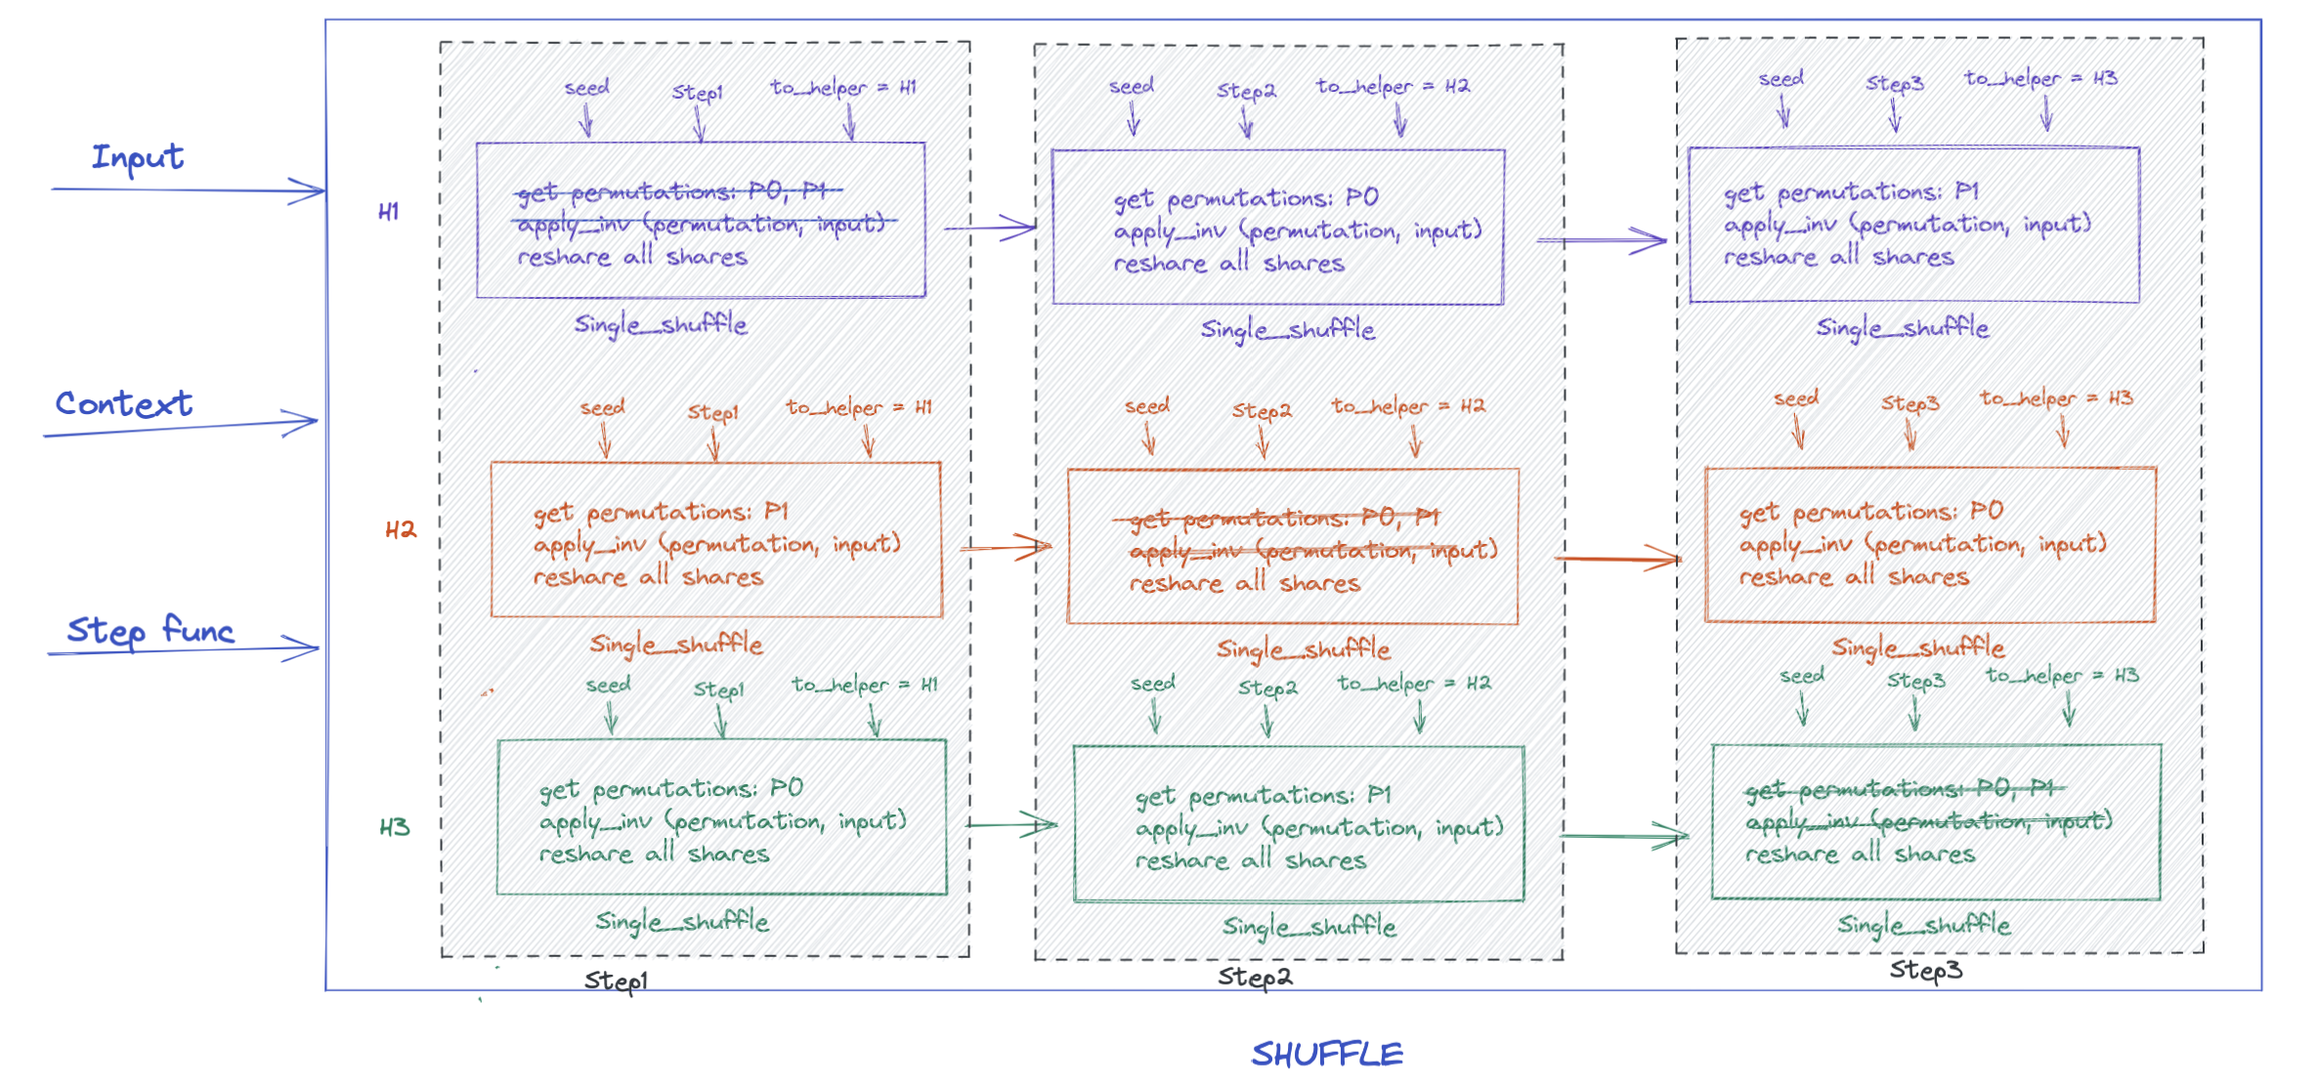
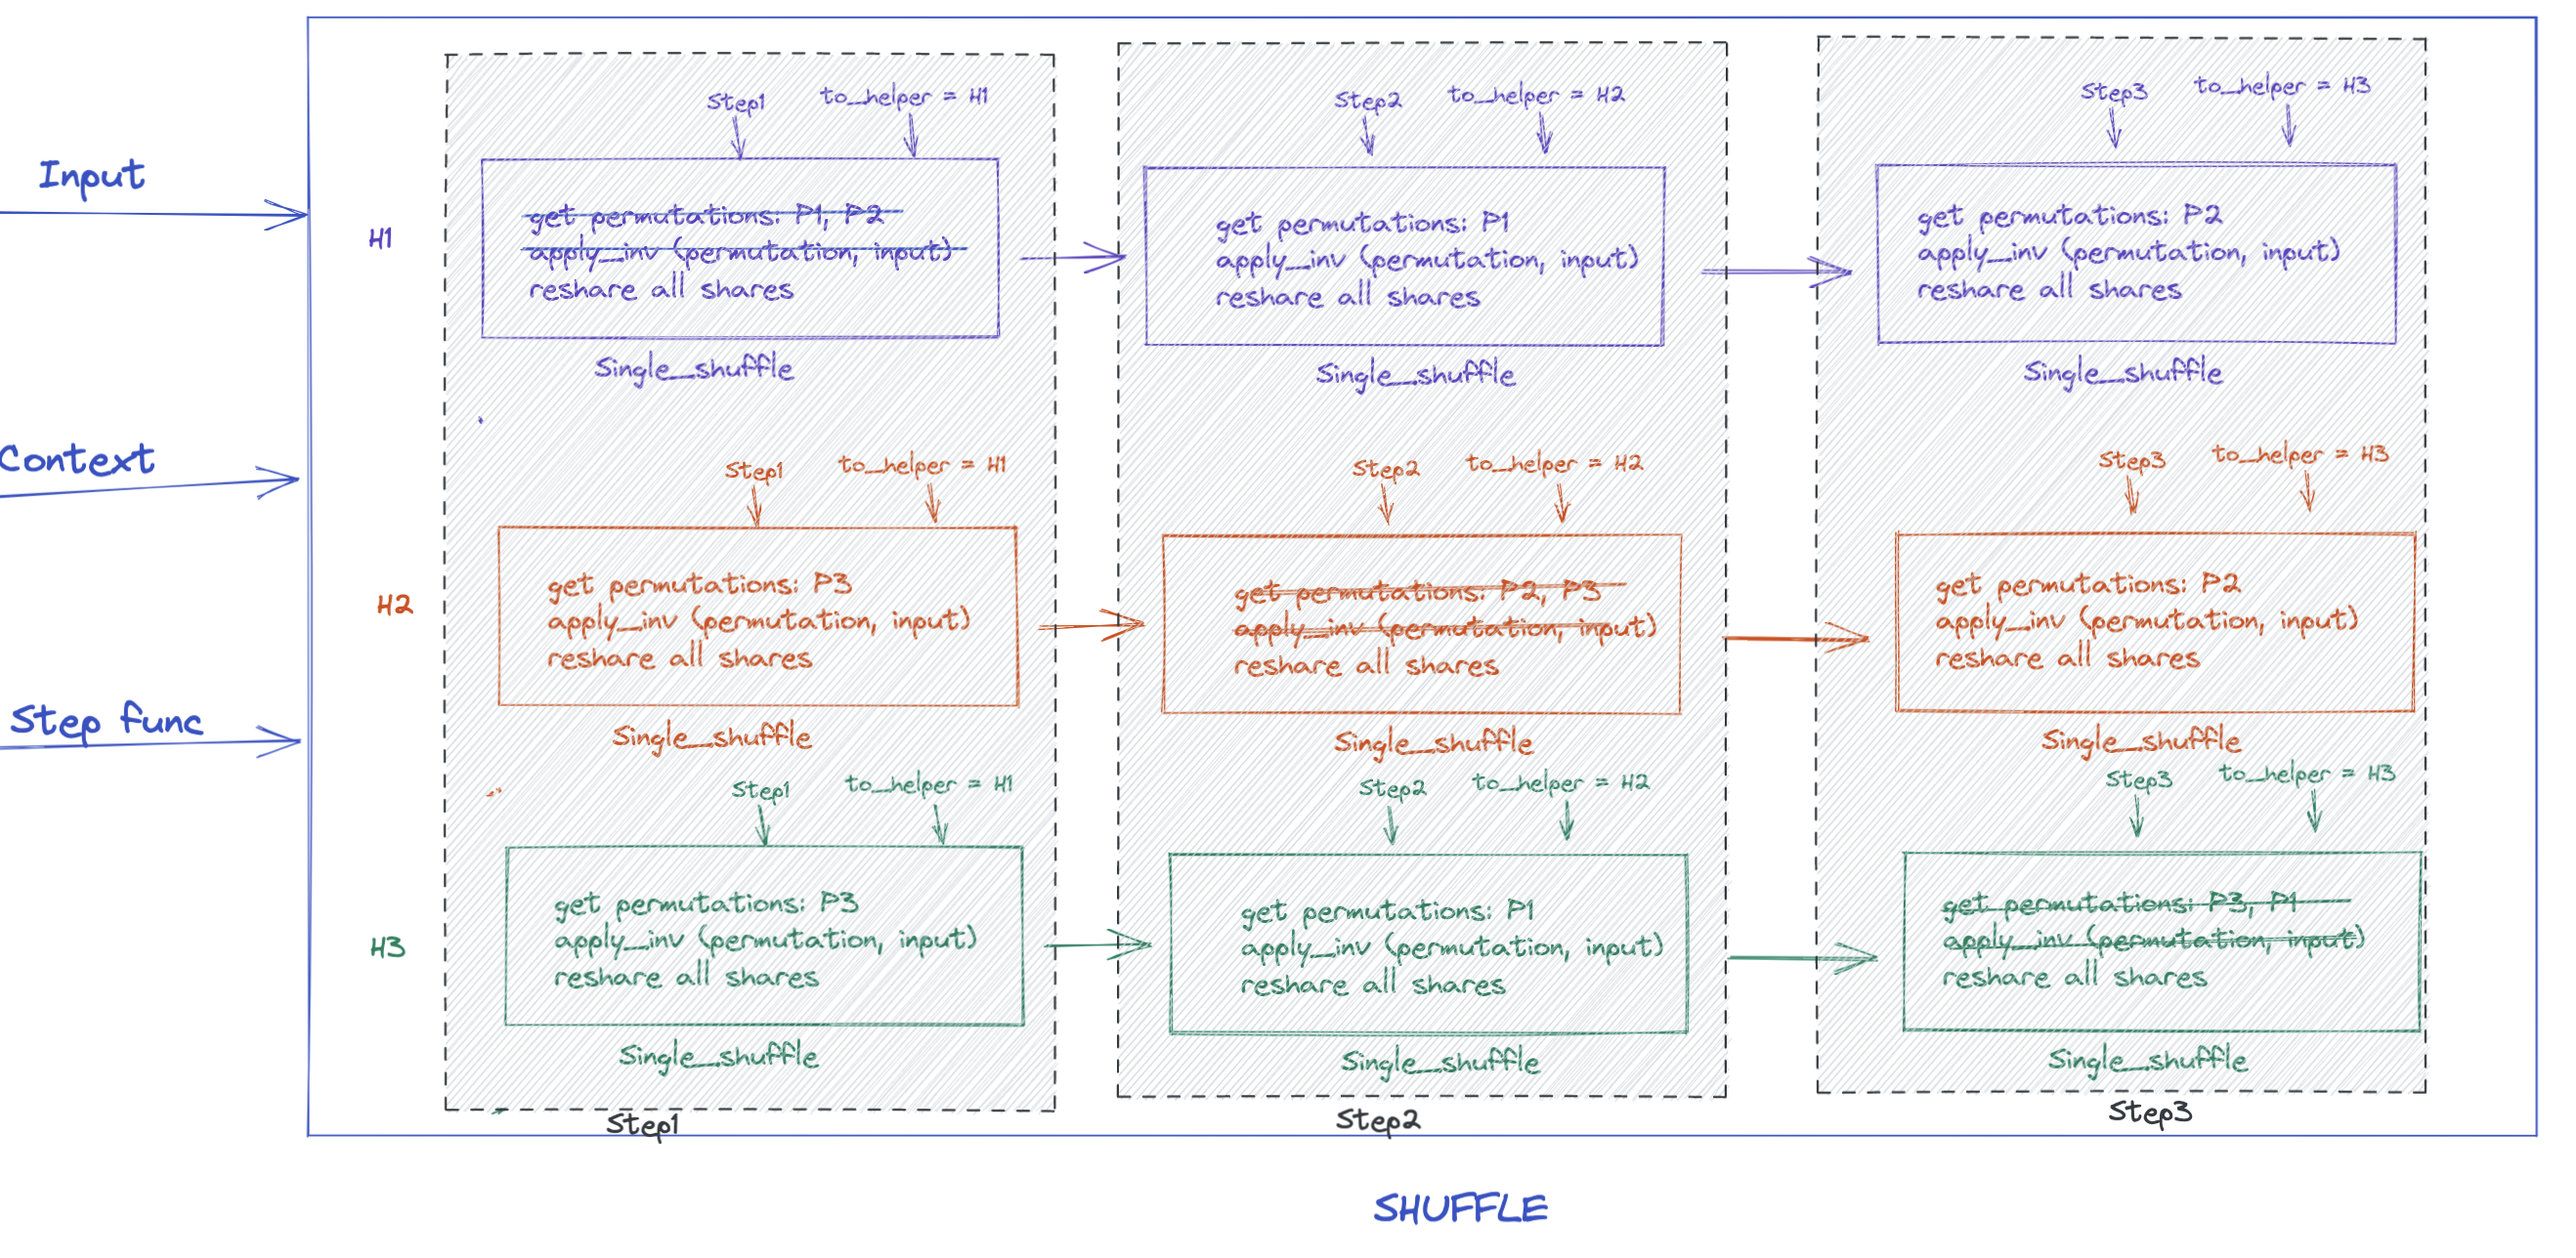
Improving comments and removing dead code wherever code is being used now

diff --git a/src/protocol/sort/shuffle.rs b/src/protocol/sort/shuffle.rs
@@ -1,7 +1,8 @@
 use crate::helpers::prss::PrssSpace;
 use permutation::Permutation;
-use rand::rngs::mock::StepRng;
 use rand::seq::SliceRandom;
+use rand::SeedableRng;
+use rand_chacha::ChaCha8Rng;
 
 use embed_doc_image::embed_doc_image;
 use futures::future::try_join_all;
@@ -25,66 +26,71 @@ use super::{
 };
 
 #[allow(dead_code)]
-pub struct Shuffle<F, S> {
-    input: Vec<Replicated<F>>,
+pub struct Shuffle<'a, F, S> {
+    input: &'a mut Vec<Replicated<F>>,
     step_fn: fn(ShuffleStep) -> S,
 }
 
 /// This is SHUFFLE(Algorithm 1) described in <https://eprint.iacr.org/2019/695.pdf>.
 /// This protocol shuffles the given inputs across 3 helpers making them indistinguishable to the helpers
-impl<F: Field, S: Step + SpaceIndex> Shuffle<F, S> {
+impl<'a, F: Field, S: Step + SpaceIndex> Shuffle<'a, F, S> {
     #[allow(dead_code)]
-    pub fn new(input: Vec<Replicated<F>>, step_fn: fn(ShuffleStep) -> S) -> Self {
+    pub fn new(input: &'a mut Vec<Replicated<F>>, step_fn: fn(ShuffleStep) -> S) -> Self {
         Self { input, step_fn }
     }
 
     /// This implements Fisher Yates shuffle described here <https://en.wikipedia.org/wiki/Fisher%E2%80%93Yates_shuffle>
-    #[allow(clippy::cast_possible_truncation, dead_code)]
+    #[allow(clippy::cast_possible_truncation)]
     fn generate_random_permutation(
         batchsize: usize,
         direction: Direction,
-        index: u64,
         prss: &PrssSpace,
     ) -> Permutation {
-        let mut permutation: Vec<usize> = (0..batchsize).collect();
-        let rand = prss.generate_values(index.into());
-        let mut rng = if direction == Direction::Left {
-            StepRng::new(rand.0 as u64, 1)
+        // Chacha8Rng expects a [u8;32] seed whereas prss returns a u128 number.
+        // We are using two seeds from prss to generate a seed for shuffle and concatenating them
+        // Since reshare uses indexes 0..batchsize to generate random numbers from prss, we are using
+        // batchsize and batchsize+1 as index to get seeds for permutation
+        let randoms = (
+            prss.generate_values(batchsize as u128),
+            prss.generate_values(batchsize as u128 + 1),
+        );
+        let mut seed = Vec::with_capacity(32);
+        if direction == Direction::Left {
+            seed.extend_from_slice(&randoms.0 .0.to_le_bytes());
+            seed.extend_from_slice(&randoms.1 .0.to_le_bytes());
         } else {
-            StepRng::new(rand.1 as u64, 1)
+            seed.extend_from_slice(&randoms.0 .1.to_le_bytes());
+            seed.extend_from_slice(&randoms.1 .1.to_le_bytes());
         };
-        permutation.shuffle(&mut rng);
+
+        let mut permutation: Vec<usize> = (0..batchsize).collect();
+
+        permutation.shuffle(&mut ChaCha8Rng::from_seed(seed.try_into().unwrap()));
         Permutation::from_vec(permutation)
     }
 
-    #[allow(clippy::cast_possible_truncation)]
-    fn generate_random_permutations(
-        &self,
-        direction: Direction,
-        prss: &PrssSpace,
-        seed: u128,
-    ) -> Permutation {
-        let batchsize = self.input.len();
-        let index = if direction == Direction::Left {
-            prss.generate_values(seed).0
-        } else {
-            prss.generate_values(seed).1
-        };
-
-        Self::generate_random_permutation(batchsize, direction, index as u64, prss)
+    // We call shuffle with helpers involved as (H2, H3), (H3, H1) and (H1, H2). In other words, the shuffle is being called for
+    // H1, H2 and H3 respectively (since they do not participate in the step) and hence are the recipients of the shuffle.
+    fn shuffle_for_helper(which_step: ShuffleStep) -> Identity {
+        match which_step {
+            Step1 => Identity::H1,
+            Step2 => Identity::H2,
+            Step3 => Identity::H3,
+        }
     }
 
     #[allow(clippy::cast_possible_truncation)]
     async fn reshare_all_shares<M, G>(
         &self,
         ctx: &ProtocolContext<'_, G, S>,
-        to_helper: Identity,
-        step: S,
+        which_step: ShuffleStep,
     ) -> Result<Vec<Replicated<F>>, BoxError>
     where
         M: Mesh,
         G: Gateway<M, S>,
     {
+        let step = (self.step_fn)(which_step);
+        let to_helper = Self::shuffle_for_helper(which_step);
         let reshares = self
             .input
             .iter()
@@ -98,16 +104,16 @@ impl<F: Field, S: Step + SpaceIndex> Shuffle<F, S> {
     }
 
     /// `single_shuffle` is called for the helpers
-    /// i) 2/3 helpers generate random sequence using shared prss random number
-    /// ii) 2/3 helpers apply the permutation to their shares
+    /// i)   2 helpers generate random sequence using shared prss random number
+    /// ii)  2 helpers apply the permutation to their shares
     /// iii) reshare to `to_helper`
+    #[allow(clippy::cast_possible_truncation)]
     async fn single_shuffle<M: Mesh, G: Gateway<M, S>>(
         &mut self,
         ctx: &ProtocolContext<'_, G, S>,
-        seed: u128,
-        to_helper: Identity,
         which_step: ShuffleStep,
     ) -> Result<Vec<Replicated<F>>, BoxError> {
+        let to_helper = Self::shuffle_for_helper(which_step);
         let step = (self.step_fn)(which_step);
         let prss = &ctx.participant[step];
         let channel = ctx.gateway.get_channel(step);
@@ -118,53 +124,44 @@ impl<F: Field, S: Step + SpaceIndex> Shuffle<F, S> {
             } else {
                 Direction::Right
             };
-            let mut permute = self.generate_random_permutations(direction, prss, seed);
+            let mut permute = Self::generate_random_permutation(self.input.len(), direction, prss);
             apply_inv(&mut permute, &mut self.input);
         }
-        self.reshare_all_shares(ctx, to_helper, step).await
+        self.reshare_all_shares(ctx, which_step).await
     }
-
-    /// Executes shuffling the inputs within mpc.
-    /// Shuffle calls `single_shuffle` three times with 2/3 helpers shuffling the shares each time.
-    /// Since each shuffle needs to be unique for the infrastructure to work, we have three steps to indicate that.
-    /// Due to this, the Shuffle object receives a step function and appends a `ShuffleStep` to form a concrete step.
-    #[embed_doc_image("reshare", "images/sort/shuffle.png")]
+    #[embed_doc_image("shuffle", "images/sort/shuffle.png")]
+    /// Shuffle calls `single_shuffle` three times with 2 helpers shuffling the shares each time.
+    /// Order of calling `single_shuffle` is shuffle with (H2, H3), (H3, H1) and (H1, H2).
+    /// Each single shuffle requires communication between helpers to perform reshare.
+    /// Infrastructure has a pre-requisite to distinguish each communication step uniquely.
+    /// For this, we have three shuffle steps one per `single_shuffle` i.e. Step1, Step2 and Step3.
+    /// The Shuffle object receives a step function and appends a `ShuffleStep` to form a concrete step
+    /// ![Shuffle steps][shuffle]
     #[allow(dead_code)]
     pub async fn execute<M: Mesh, G: Gateway<M, S>>(
         &mut self,
         ctx: &ProtocolContext<'_, G, S>,
-    ) -> Result<Vec<Replicated<F>>, BoxError>
+    ) -> Result<(), BoxError>
     where
         F: Field,
     {
-        // TODO : Need to find a way to have a better seed here. Can we use QueryID + SortStep combination to generate a seed?
-        let seed = self.input.len().try_into().unwrap();
-        self.input = self
-            .single_shuffle(ctx, seed, Identity::H1, Step1)
-            .await
-            .unwrap();
-        self.input = self
-            .single_shuffle(ctx, seed, Identity::H2, Step2)
-            .await
-            .unwrap();
-        self.input = self
-            .single_shuffle(ctx, seed, Identity::H3, Step3)
-            .await
-            .unwrap();
+        *self.input = self.single_shuffle(ctx, Step1).await.unwrap();
+        *self.input = self.single_shuffle(ctx, Step2).await.unwrap();
+        *self.input = self.single_shuffle(ctx, Step3).await.unwrap();
 
-        Ok(self.input.clone())
+        Ok(())
     }
 }
 
 #[cfg(test)]
 mod tests {
-    use crate::helpers::Direction;
-    use rand::{rngs::mock::StepRng, Rng};
+    use rand::rngs::mock::StepRng;
     use std::collections::HashSet;
 
     use super::Shuffle;
     use crate::{
         field::Fp31,
+        helpers::Direction,
         protocol::sort::ShuffleStep::Step1,
         protocol::QueryId,
         test_fixture::{
@@ -177,46 +174,39 @@ mod tests {
 
     #[test]
     fn random_sequence_generated() {
-        let mut rand = StepRng::new(1, 1);
         let batchsize = 10000;
         let (p1, p2, p3) = make_participants();
-        let index = rand.gen::<u64>();
         let sequence1left = Shuffle::<Fp31, TestStep>::generate_random_permutation(
             batchsize,
             Direction::Left,
-            index,
             &p1[TestStep::Shuffle(Step1)],
         );
         let sequence1right = Shuffle::<Fp31, TestStep>::generate_random_permutation(
             batchsize,
             Direction::Right,
-            index,
             &p1[TestStep::Shuffle(Step1)],
         );
 
         let sequence2left = Shuffle::<Fp31, TestStep>::generate_random_permutation(
             batchsize,
             Direction::Left,
-            index,
             &p2[TestStep::Shuffle(Step1)],
         );
+
         let sequence2right = Shuffle::<Fp31, TestStep>::generate_random_permutation(
             batchsize,
             Direction::Right,
-            index,
             &p2[TestStep::Shuffle(Step1)],
         );
 
         let sequence3left = Shuffle::<Fp31, TestStep>::generate_random_permutation(
             batchsize,
             Direction::Left,
-            index,
             &p3[TestStep::Shuffle(Step1)],
         );
         let sequence3right = Shuffle::<Fp31, TestStep>::generate_random_permutation(
             batchsize,
             Direction::Right,
-            index,
             &p3[TestStep::Shuffle(Step1)],
         );
 
@@ -241,7 +231,9 @@ mod tests {
         let context = make_contexts(&world);
         let mut rand = StepRng::new(100, 1);
 
-        let input: HashSet<u8> = HashSet::from([4, 1, 9, 2, 3, 8, 6, 7, 5]);
+        let batchsize = 25;
+        let input: Vec<u8> = (0..batchsize).collect();
+        let hashed_input: HashSet<u8> = input.clone().into_iter().collect();
         let input_len = input.len();
 
         let mut shares0 = Vec::with_capacity(input_len);
@@ -255,38 +247,47 @@ mod tests {
             shares2.push(share[2]);
         });
 
-        let mut shuffle0 = Shuffle::new(shares0.clone(), TestStep::Shuffle);
-        let mut shuffle1 = Shuffle::new(shares1.clone(), TestStep::Shuffle);
-        let mut shuffle2 = Shuffle::new(shares2.clone(), TestStep::Shuffle);
+        let input0 = shares0.clone();
+        let input1 = shares1.clone();
+        let input2 = shares2.clone();
+
+        let mut shuffle0 = Shuffle::new(&mut shares0, TestStep::Shuffle);
+        let mut shuffle1 = Shuffle::new(&mut shares1, TestStep::Shuffle);
+        let mut shuffle2 = Shuffle::new(&mut shares2, TestStep::Shuffle);
 
         let h0_future = shuffle0.execute(&context[0]);
         let h1_future = shuffle1.execute(&context[1]);
         let h2_future = shuffle2.execute(&context[2]);
 
-        let result = try_join!(h0_future, h1_future, h2_future).unwrap();
+        try_join!(h0_future, h1_future, h2_future).unwrap();
 
-        assert_eq!(result.0.len(), input_len);
-        assert_eq!(result.1.len(), input_len);
-        assert_eq!(result.2.len(), input_len);
+        // Shuffled output should be same length as input
+        assert_eq!(shares0.len(), input_len);
+        assert_eq!(shares1.len(), input_len);
+        assert_eq!(shares2.len(), input_len);
 
         let mut result0 = Vec::with_capacity(input_len);
         let mut result1 = Vec::with_capacity(input_len);
         let mut result2 = Vec::with_capacity(input_len);
 
-        let mut output = HashSet::new();
-        (0..result.0.len()).for_each(|i| {
-            let val = validate_and_reconstruct((result.0[i], result.1[i], result.2[i]));
+        let mut hashed_output_secret = HashSet::new();
+        let mut output_secret = Vec::new();
+        (0..shares0.len()).for_each(|i| {
+            let val = validate_and_reconstruct((shares0[i], shares1[i], shares2[i]));
+            output_secret.push(u8::from(val));
+            hashed_output_secret.insert(u8::from(val));
 
-            result0.push(result.0[i]);
-            result1.push(result.1[i]);
-            result2.push(result.2[i]);
-            output.insert(u8::from(val));
+            result0.push(shares0[i]);
+            result1.push(shares1[i]);
+            result2.push(shares2[i]);
         });
 
-        assert_ne!(result0, shares0);
-        assert_ne!(result1, shares1);
-        assert_ne!(result2, shares2);
+        // Order of shares should now be different from original
+        assert!(result0 != input0 || result1 != input1 || result2 != input2);
+        // Secrets should be shuffled also
+        assert_ne!(output_secret, input);
 
-        assert_eq!(output, input);
+        // Shuffled output should have same inputs
+        assert_eq!(hashed_output_secret, hashed_input);
     }
 }

diff --git a/src/protocol/sort/reshare.rs b/src/protocol/sort/reshare.rs
@@ -27,7 +27,6 @@ pub struct Reshare<F> {
 }
 
 impl<F: Field> Reshare<F> {
-    #[allow(dead_code)]
     pub fn new(input: Replicated<F>) -> Self {
         Self { input }
     }
@@ -45,7 +44,6 @@ impl<F: Field> Reshare<F> {
     ///    `to_helper.left`  = (part1 + part2, `rand_left`)  = (part1 + part2, r1)
     ///    `to_helper`       = (`rand_left`, `rand_right`)     = (r0, r1)
     ///    `to_helper.right` = (`rand_right`, part1 + part2) = (r0, part1 + part2)
-    #[allow(dead_code)]
     pub async fn execute<M: Mesh, G: Gateway<M, S>, S: Step + SpaceIndex>(
         self,
         ctx: &ProtocolContext<'_, G, S>,
@@ -143,6 +141,10 @@ mod tests {
             let f = try_join!(h0_future, h1_future, h2_future).unwrap();
             let output_share = validate_and_reconstruct(f);
             assert_eq!(output_share, input);
+
+            assert_ne!(share[0], f.0);
+            assert_ne!(share[1], f.1);
+            assert_ne!(share[2], f.2);
         }
     }
 }

diff --git a/src/protocol/sort/bit_permutations.rs b/src/protocol/sort/bit_permutations.rs
@@ -15,7 +15,6 @@ pub struct BitPermutations<'a, F> {
     input: &'a [Replicated<F>],
 }
 
-/// Create an object to generate bit permutations for a given bit column of query. This is GENBITPERM(Algorithm 3) from the paper
 impl<'a, F: Field> BitPermutations<'a, F> {
     #[allow(dead_code)]
     pub fn new(input: &'a [Replicated<F>]) -> BitPermutations<'a, F> {
@@ -80,7 +79,6 @@ impl<'a, F: Field> BitPermutations<'a, F> {
     /// ## Errors
     /// It will propagate errors from multiplication protocol.
     #[allow(dead_code)]
-    #[embed_doc_image("reshare", "images/sort/bit_permutations.png")]
     pub async fn execute<M: Mesh, G: Gateway<M, IPAProtocolStep>>(
         &self,
         ctx: &ProtocolContext<'_, G, IPAProtocolStep>,

diff --git a/src/protocol/sort/apply.rs b/src/protocol/sort/apply.rs
@@ -2,7 +2,7 @@ use embed_doc_image::embed_doc_image;
 use permutation::Permutation;
 
 // TODO #OptimizeLater
-// For now, we are using Permutation crate tp implement `apply_inv` and `apply` functions.
+// For now, we are using Permutation crate to implement `apply_inv` and `apply` functions.
 // However this uses usize which is either 32-bit or 64-bit depending on the architecture we are using.
 // In our case, if we are sorting less than 2^32 elements (over 4 billion) 32-bits is sufficient.
 // We probably never need a 64-bit number and is not optimal.
